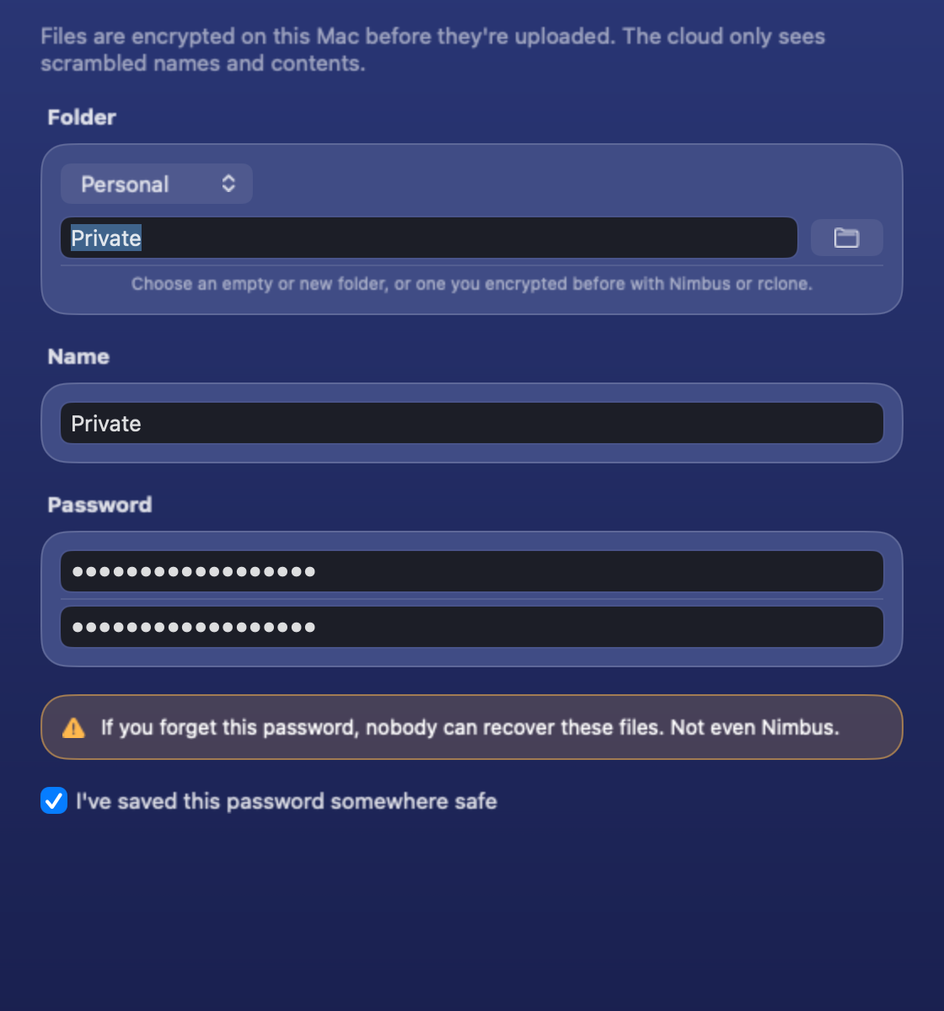
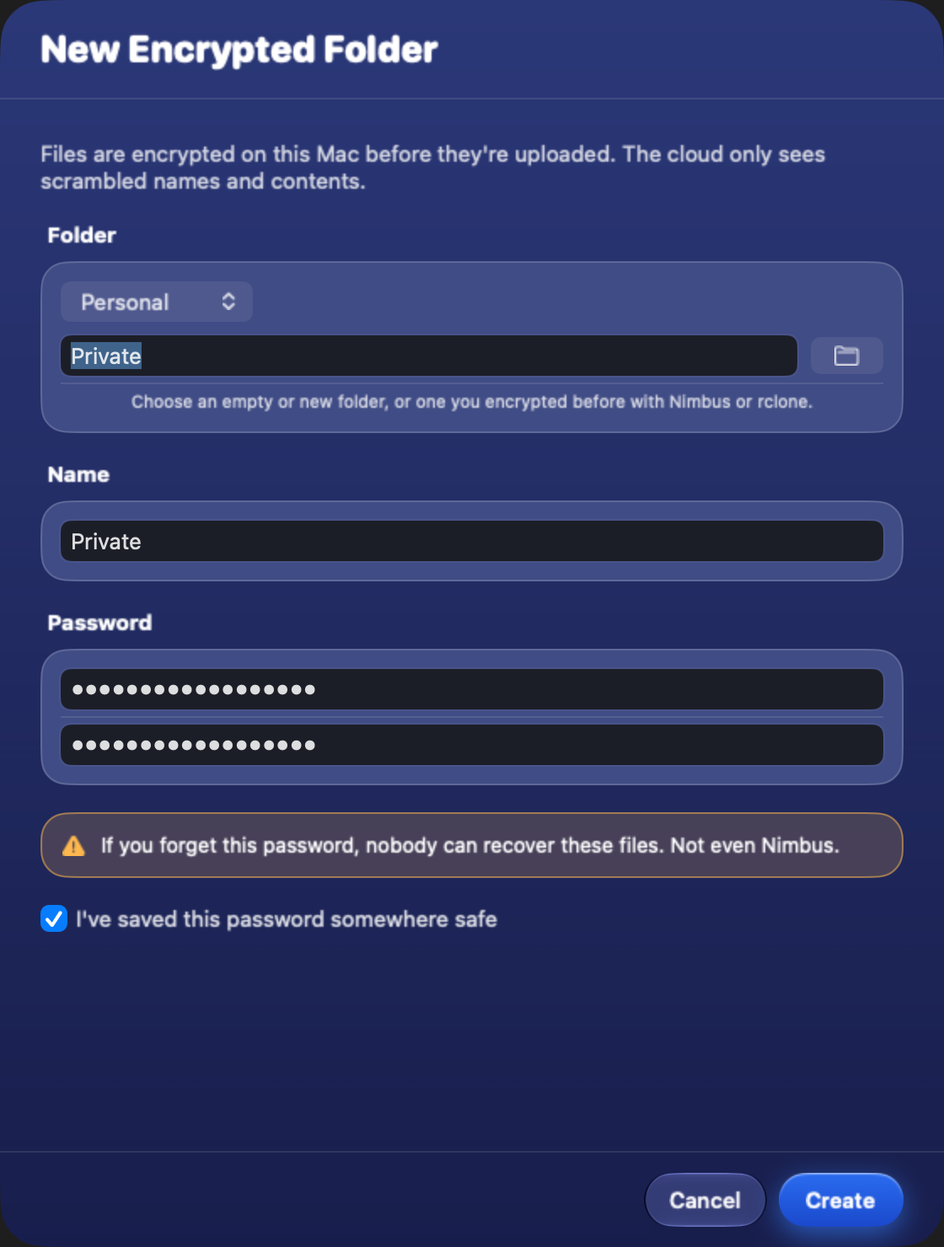
fix(site): clean up the screenshots that looked wrong and tighten the page (#179)
* fix(site): clean up the screenshots that looked wrong and tighten the page

- Add Cloud and backup sheets: clip the black baked in outside the rounded corners
- More: crop the empty lower halves of Search, Compare and Encrypted Folder; give
  Version History and Send to Nimbus a frame instead of an edge-to-edge render
- Keep on this Mac: draw the switch instead of a 240px screenshot scrap
- File Provider panel: title and Finder shot on the left, the list on the right
- Menu Bar tile: the whole panel hangs inside the tile, not cut through its buttons
- Headline accents use the page's gradient; two black chapters share one gap

* docs(site): re-render the Encrypted Folder and Version History screenshots

Both were hand-cropped: the encrypted folder sheet had lost its title and
buttons, and the version history sheet its padding. The encrypted folder shot
is now the preview's full render. The versions preview is resized to the
sheet's own width and minimum height, so the picture is the sheet edge to edge.

* feat(site): a quieter Beltr and OneScribe band, with the DTNS mention

The band before the download block was a full chapter: an 84px headline and
two tall cards of device art. It is now a small headline and two plain cards
(icon, one line, the price model, two links). The device art is removed.

OneScribe's card credits Daily Tech News Show episode 5171, whose show notes
link the app.

* feat(site): a thank-you strip for DTNS under the OneScribe card
[…]

diff --git a/site/styles.css b/site/styles.css
@@ -25,6 +25,7 @@
   --sky-low: #150c38;
   --action-top: #3d7dff;
   --action-low: #1f55e6;
+  --accent: linear-gradient(100deg, #6aa9ff, #a78bff 70%, #d08bff);
 
   --nav-h: 48px;
   --r-tile: 28px;
@@ -93,6 +94,8 @@ code { font-family: var(--mono); font-size: .9em; background: rgba(255,255,255,.
 .section--black { background: var(--black); color: var(--on-dark); }
 .section--black .win { box-shadow: 0 0 0 1px rgba(255,255,255,.12), 0 0 160px -20px rgba(72,120,255,.5); }
 @media (max-width: 700px) { .section { padding: 84px 0; } }
+/* Two black chapters in a row share one gap, not two. */
+.section--black + .section--black { padding-top: 0; }
 
 /* The app's backdrop: a navy-to-violet fall with two glows. */
 .sky {
@@ -106,8 +109,10 @@ code { font-family: var(--mono); font-size: .9em; background: rgba(255,255,255,.
 
 .head { text-align: center; max-width: 980px; margin: 0 auto 72px; }
 .head h2 { font-size: clamp(38px, 7vw, 84px); line-height: 1.02; letter-spacing: -0.03em; }
-.head h2 span { color: var(--ink-3); }
-.section--black .head h2 span, .sky .head h2 span { color: #8f93b0; }
+/* The second half of each headline is set in the page's one accent gradient,
+   the same one the manifesto's keywords use. */
+.head h2 span { color: transparent; background: var(--accent); -webkit-background-clip: text; background-clip: text;
+  -webkit-box-decoration-break: clone; box-decoration-break: clone; padding-bottom: .12em; }
 .lede { font-size: clamp(18px, 2vw, 21px); line-height: 1.4; color: var(--ink-2); max-width: 700px; margin: 22px auto 0; letter-spacing: -0.014em; }
 .section--black .lede { color: var(--on-dark-2); }
 .sky .lede { color: #c5c9e6; }
@@ -227,8 +232,28 @@ code { font-family: var(--mono); font-size: .9em; background: rgba(255,255,255,.
 
 .tile__img { margin: -10px -10px 26px; }
 .tile__img img { width: 100%; border-radius: 14px; box-shadow: 0 0 0 1px rgba(255,255,255,.12), 0 24px 50px -20px rgba(0,0,0,.7); }
-.tile__img--sheet img { border-radius: 22px 22px 14px 14px; }
-.tile__img--small { max-width: 240px; margin: 0 0 auto; padding-bottom: 26px; }
+/* A screenshot whose lower half is empty: keep the top, fade the cut. */
+.tile__img--crop { position: relative; }
+.tile__img--crop img { aspect-ratio: var(--crop); object-fit: cover; object-position: top; }
+.tile__img--crop::after { content: ""; position: absolute; inset: 86% -1px -1px; pointer-events: none;
+  background: linear-gradient(180deg, rgba(12,16,48,0), #0c1030); }
+/* A whole sheet. The render is opaque, black outside its rounded corners,
+   so the corners are cut here, as they are for the Add Cloud sheets. */
+.tile__img--sheet { container-type: inline-size; }
+.tile--dark .tile__img--sheet img { border-radius: 5cqw; }
+/* A plain system sheet, square in the render: round it and ring it here. */
+.tile__img--frame { border-radius: 14px; overflow: hidden; box-shadow: 0 0 0 1px rgba(255,255,255,.12), 0 24px 50px -20px rgba(0,0,0,.7); }
+.tile--dark .tile__img--frame img { border-radius: 0; box-shadow: none; }
+
+/* Keep on this Mac: the inspector's switch, drawn. */
+.tile__top { margin-bottom: auto; padding-bottom: 30px; }
+.keep { max-width: 300px; padding: 16px 18px; border-radius: 18px; background: rgba(255,255,255,.07);
+  box-shadow: inset 0 1px 0 rgba(255,255,255,.16), inset 0 0 0 1px rgba(255,255,255,.08); }
+.tile .keep__row { display: flex; align-items: center; justify-content: space-between; gap: 16px; font-size: 16px; font-weight: 600; color: #fff; }
+.keep__switch { position: relative; flex: none; width: 44px; height: 26px; border-radius: 13px;
+  background: linear-gradient(var(--action-top), var(--action-low)); box-shadow: 0 0 22px rgba(61,125,255,.7); }
+.keep__switch::after { content: ""; position: absolute; top: 2px; right: 2px; width: 22px; height: 22px; border-radius: 50%; background: #fff; box-shadow: 0 1px 3px rgba(0,0,0,.4); }
+.tile .keep__note { margin-top: 6px; font-size: 13px; color: var(--ink-3); }
 @media (max-width: 900px) {
   .bento, .bento--2 { grid-template-columns: 1fr; }
   .tile--span2, .tile--span3 { grid-column: auto; }
@@ -246,11 +271,14 @@ code { font-family: var(--mono); font-size: .9em; background: rgba(255,255,255,.
 .tile .ring__label span { font-size: 13px; color: #c5c9e6; margin-top: 6px; }
 
 /* ---------- Add Cloud sheets ---------- */
-.sheets { display: grid; grid-template-columns: 1184fr 1200fr; gap: 44px; align-items: start; max-width: 940px; margin: 0 auto; }
-.sheets img { filter: drop-shadow(0 30px 50px rgba(0,0,0,.45)); }
+.sheets { display: grid; grid-template-columns: 1184fr 1200fr; gap: 44px; align-items: center; max-width: 940px; margin: 0 auto; }
+/* The renders are opaque, with black outside the sheet's rounded corners, so
+   the corners are cut here: a radius that scales with the picture. */
+.sheets figure { container-type: inline-size; }
+.sheets img { width: 100%; border-radius: 5cqw; box-shadow: 0 0 0 1px rgba(255,255,255,.14), 0 30px 60px -20px rgba(0,0,0,.6), 0 0 120px -30px rgba(72,120,255,.6); }
 @media (max-width: 760px) { .sheets { grid-template-columns: 1fr; max-width: 440px; } }
 .sheets--backups { grid-template-columns: 1272fr 1200fr; margin-top: 56px; align-items: center; }
-.sheets--backups img { border-radius: 20px; filter: none; box-shadow: 0 0 0 1px rgba(255,255,255,.12), 0 0 120px -30px rgba(72,120,255,.6); }
+.sheets--backups img { border-radius: 4.4cqw; }
 .section--black .sheets figcaption { color: #8f93b0; }
 @media (max-width: 760px) { .sheets--backups { grid-template-columns: 1fr; } }
 
@@ -274,23 +302,35 @@ code { font-family: var(--mono); font-size: .9em; background: rgba(255,255,255,.
 .compare__title { font-family: var(--display); font-weight: 700; font-size: 30px; margin: 84px 0 24px; text-align: center; }
 
 /* ---------- From the same studio ---------- */
-.fund { display: grid; grid-template-columns: 7fr 5fr; gap: 20px; }
-.fund__card { background: linear-gradient(180deg, rgba(255,255,255,.085), rgba(255,255,255,.03)); box-shadow: inset 0 1px 0 rgba(255,255,255,.18), inset 0 0 0 1px rgba(255,255,255,.08); border-radius: var(--r-tile); overflow: hidden; display: flex; flex-direction: column; }
-.fund__art { position: relative; padding: 28px 28px 0; }
-.fund__art--tv { padding-right: 84px; }
-.fund__tv { border-radius: 10px; overflow: hidden; box-shadow: 0 0 0 1px rgba(0,0,0,.2), 0 30px 60px -24px rgba(0,0,0,.6); }
-.fund__phone { position: absolute; right: 20px; bottom: -24px; width: 136px; }
-.fund__art--phone { display: flex; justify-content: center; }
-.fund__hero-phone { width: 230px; margin-bottom: -44px; }
-.fund__body { padding: 40px 28px 28px; display: flex; flex-direction: column; flex: 1; position: relative; background: #0b0e26; }
-.fund__name { display: flex; align-items: center; gap: 12px; }
-.fund__name img { border-radius: 10px; box-shadow: 0 0 0 1px rgba(255,255,255,.14); }
-.fund__name h3 { font-family: var(--display); font-weight: 700; font-size: 28px; }
-.fund__what { margin-top: 14px; font-size: 21px; letter-spacing: -0.015em; }
-.fund__copy { margin-top: 8px; color: var(--ink-2); font-size: 16px; line-height: 1.5; }
-.fund__price { margin-top: 14px; font-size: 14px; font-weight: 600; color: var(--link); }
-.fund .actions { margin-top: auto; padding-top: 22px; }
-@media (max-width: 860px) { .fund { grid-template-columns: 1fr; } }
+/* A thank-you band, not a chapter: a small headline and two plain cards. */
+.studio { padding: 96px 0; }
+.head--quiet { max-width: 640px; margin-bottom: 36px; }
+.head--quiet h2 { font-size: clamp(26px, 3.2vw, 38px); line-height: 1.1; letter-spacing: -0.02em; }
+.head--quiet .lede { font-size: 17px; margin-top: 12px; }
+.fund { display: grid; grid-template-columns: 1fr 1fr; gap: 20px; max-width: 900px; margin: 0 auto; }
+.fund__card { background: linear-gradient(180deg, rgba(255,255,255,.085), rgba(255,255,255,.03)); box-shadow: inset 0 1px 0 rgba(255,255,255,.18), inset 0 0 0 1px rgba(255,255,255,.08); border-radius: var(--r-tile); padding: 28px; display: flex; flex-direction: column; }
+.fund__name { display: flex; align-items: center; gap: 14px; }
+.fund__name img { border-radius: 10px; box-shadow: 0 0 0 1px rgba(255,255,255,.14); flex: none; }
+.fund__name h3 { font-family: var(--display); font-weight: 700; font-size: 22px; line-height: 1.1; }
+.fund__what { font-size: 15px; color: var(--ink-2); margin-top: 2px; }
+.fund__copy { margin-top: 16px; color: var(--ink-2); font-size: 15px; line-height: 1.5; }
+.fund__price { margin-top: 12px; font-size: 14px; font-weight: 600; color: var(--ink); }
+.fund .actions { margin-top: auto; padding-top: 18px; }
+/* The thank-you to DTNS for mentioning OneScribe: big letters and one link,
+   to the show's Patreon. It spans both cards. */
+.dtns { grid-column: 1 / -1; display: flex; align-items: center; gap: 28px; padding: 26px 32px; border-radius: var(--r-tile); color: var(--ink);
+  background: radial-gradient(60% 160% at 0% 50%, rgba(64,120,255,.38), transparent 70%), radial-gradient(50% 160% at 100% 50%, rgba(128,72,255,.26), transparent 70%), rgba(255,255,255,.04);
+  box-shadow: inset 0 1px 0 rgba(255,255,255,.2), inset 0 0 0 1px rgba(255,255,255,.1); transition: filter .2s; }
+.dtns:hover { text-decoration: none; filter: brightness(1.12); }
+.dtns__mark { flex: none; font-family: var(--display); font-weight: 800; font-size: clamp(56px, 8vw, 92px); line-height: .9; letter-spacing: -0.04em;
+  color: transparent; background: linear-gradient(100deg, #fff 5%, #9fc0ff 60%, #b99cff); -webkit-background-clip: text; background-clip: text; padding-right: .04em; }
+.dtns__copy { display: grid; gap: 4px; font-size: 15px; line-height: 1.45; color: var(--ink-2); }
+.dtns__copy strong { font-family: var(--display); font-size: 21px; font-weight: 700; color: #fff; }
+.dtns__go { flex: none; margin-left: auto; font-weight: 600; font-size: 15px; line-height: 1; color: #fff; padding: 12px 20px; border-radius: 980px;
+  background: linear-gradient(var(--action-top), var(--action-low)); box-shadow: inset 0 1px 0 rgba(255,255,255,.28); }
+@media (max-width: 760px) { .dtns { flex-direction: column; align-items: flex-start; gap: 16px; padding: 26px 28px; } .dtns__go { margin-left: 0; } }
+.fund .more { font-size: 15px; }
+@media (max-width: 760px) { .fund { grid-template-columns: 1fr; } .studio { padding: 72px 0; } }
 
 /* ---------- Download ---------- */
 .cta { padding: 136px 0 120px; text-align: center; }
@@ -326,7 +366,7 @@ code { font-family: var(--mono); font-size: .9em; background: rgba(255,255,255,.
 .manifesto { background: var(--black); color: var(--on-dark); padding: 120px 0 40px; }
 .manifesto__pin { max-width: 1080px; margin: 0 auto; padding: 0 22px; }
 .manifesto__text { font-family: var(--display); font-weight: 700; font-size: clamp(30px, 5.6vw, 68px); line-height: 1.1; letter-spacing: -0.028em; text-wrap: balance; }
-.manifesto__text b { font-weight: inherit; color: transparent; background: linear-gradient(100deg, #6aa9ff, #a78bff 70%, #d08bff); -webkit-background-clip: text; background-clip: text; }
+.manifesto__text b { font-weight: inherit; color: transparent; background: var(--accent); -webkit-background-clip: text; background-clip: text; }
 
 /* ---------- On your Mac: the wall of system surfaces ---------- */
 .mac { position: relative; overflow: hidden; padding-top: 120px; }
@@ -347,7 +387,7 @@ code { font-family: var(--mono); font-size: .9em; background: rgba(255,255,255,.
 .sys__copy p { margin-top: 10px; font-size: 17px; line-height: 1.4; color: #b9bedd; max-width: 17em; }
 /* The panel hangs from the top edge, the way it hangs from the menu bar. */
 .sys__tile--menubar .sys__copy { max-width: 46%; }
-.sys__tile--menubar img { position: absolute; right: 36px; top: 0; width: min(44%, 300px); border-radius: 0 0 18px 18px;
+.sys__tile--menubar img { position: absolute; right: 36px; top: 0; height: calc(100% - 30px); width: auto; border-radius: 0 0 18px 18px;
   box-shadow: 0 0 0 1px rgba(255,255,255,.14), 0 30px 80px -20px rgba(40,70,200,.7); }
 .acts { margin-top: 28px; display: grid; gap: 10px; }
 .acts li { display: flex; align-items: center; gap: 12px; padding: 12px 14px; border-radius: 16px; font-size: 16px; font-weight: 600; color: #fff;
@@ -363,10 +403,10 @@ code { font-family: var(--mono); font-size: .9em; background: rgba(255,255,255,.
 .sys-list dd { margin-top: 6px; font-size: 15px; line-height: 1.45; color: #b9bedd; }
 @media (max-width: 900px) { .sys { grid-template-columns: 1fr; } .sys-list { grid-template-columns: repeat(2, 1fr); } }
 @media (max-width: 600px) { .sys-list { grid-template-columns: 1fr; } .sys__tile { padding: 28px; }
-  .sys__tile--menubar { min-height: 0; padding-bottom: 0; } .sys__tile--menubar .sys__copy { max-width: none; } .sys__tile--menubar img { position: static; width: 78%; margin: 24px auto 0; border-radius: 18px 18px 0 0; } }
+  .sys__tile--menubar { min-height: 0; padding-bottom: 0; } .sys__tile--menubar .sys__copy { max-width: none; } .sys__tile--menubar img { position: static; width: 78%; height: auto; margin: 24px auto 0; border-radius: 18px 18px 0 0; } }
 
 /* File Provider: the one panel the chapter is about. */
-.fp { display: grid; grid-template-columns: 5fr 7fr; gap: 48px; align-items: center; border-radius: 36px; padding: clamp(28px, 4.4vw, 60px);
+.fp { display: grid; grid-template-columns: 11fr 9fr; gap: 56px; align-items: center; border-radius: 36px; padding: clamp(28px, 4.4vw, 60px);
   background:
     radial-gradient(70% 90% at 100% 0%, rgba(64,120,255,.42), transparent 70%),
     radial-gradient(60% 80% at 0% 100%, rgba(128,72,255,.34), transparent 70%),
@@ -375,13 +415,14 @@ code { font-family: var(--mono); font-size: .9em; background: rgba(255,255,255,.
 .fp h3 { font-family: var(--display); font-weight: 700; font-size: clamp(44px, 6.4vw, 84px); line-height: .98; letter-spacing: -0.035em;
   color: transparent; background: linear-gradient(100deg, #fff 10%, #9fc0ff 60%, #b99cff); -webkit-background-clip: text; background-clip: text; padding-bottom: .08em; }
 .fp__lede { font-size: clamp(18px, 2vw, 22px); line-height: 1.35; color: #dfe3fa; margin-top: 14px; letter-spacing: -0.015em; }
-.fp__list { margin-top: 26px; display: grid; gap: 12px; }
+.fp__list { display: grid; gap: 14px; }
 .fp__list li { font-size: 16px; line-height: 1.42; color: #b9bedd; padding-left: 18px; position: relative; }
 .fp__list li::before { content: ""; position: absolute; left: 0; top: .62em; width: 6px; height: 6px; border-radius: 50%; background: #6aa9ff; }
 .fp__list strong { color: #fff; font-weight: 600; }
 .fp__fine { margin-top: 26px; font-size: 14px; font-weight: 600; color: #9fc0ff; }
+.fp__shot { margin-top: 36px; }
 .fp__shot img { width: 100%; border-radius: 14px; box-shadow: 0 0 0 1px rgba(255,255,255,.16), 0 40px 80px -24px rgba(0,0,0,.75); }
-@media (max-width: 900px) { .fp { grid-template-columns: 1fr; gap: 32px; } .fp__shot { order: -1; } }
+@media (max-width: 900px) { .fp { grid-template-columns: 1fr; gap: 32px; } }
 /* ---------- Privacy: three zeros ---------- */
 .zeros { display: grid; grid-template-columns: repeat(3, 1fr); gap: 24px; text-align: center; margin: 0 0 72px; }
 .zeros dt { font-family: var(--display); font-weight: 700; font-size: clamp(96px, 17vw, 200px); line-height: .9; letter-spacing: -0.04em;
@@ -407,7 +448,7 @@ code { font-family: var(--mono); font-size: .9em; background: rgba(255,255,255,.
     @keyframes win-in { from { transform: scale(.9); opacity: 0; } to { transform: none; opacity: 1; } }
 
     /* Headlines and tiles rise into place. */
-    .head, .tile, .sys__tile, .sys-list > div, .fp, .wall__title, .trio > div, .quad > div, .sheets figure, .panels figure, .panels__copy > div, .fund__card, .zeros > div, .services__row li {
+    .head, .tile, .sys__tile, .sys-list > div, .fp, .wall__title, .trio > div, .quad > div, .sheets figure, .panels figure, .panels__copy > div, .fund__card, .dtns, .zeros > div, .services__row li {
       animation: rise-in linear both; animation-timeline: view(); animation-range: entry 0% entry 90%; }
     @keyframes rise-in { from { opacity: 0; transform: translateY(44px); } to { opacity: 1; transform: none; } }
     /* Tall blocks would never finish their entry on a short screen. */

diff --git a/site/index.html b/site/index.html
@@ -124,9 +124,12 @@
     </header>
 
     <article class="fp">
-      <div class="fp__copy">
+      <div class="fp__main">
         <h3>File Provider</h3>
         <p class="fp__lede">One Apple framework, and everything Finder knows how to do with a cloud comes with it.</p>
+        <figure class="fp__shot"><img src="assets/finder-demo.png" width="920" height="406" alt="A Finder window open on a cloud named Nimbus - Personal, listed under Locations beside iCloud Drive. Photos and PDFs show real thumbnails, each with a cloud badge, before any file is downloaded. Demo files." loading="lazy"></figure>
+      </div>
+      <div class="fp__copy">
         <ul class="fp__list">
           <li><strong>Under Locations.</strong> Each cloud sits in Finder’s sidebar and in every app’s Open and Save panel.</li>
           <li><strong>Files on demand.</strong> A file downloads when you open it. macOS manages the local copies and frees the space when it needs to.</li>
@@ -139,7 +142,6 @@
         </ul>
         <p class="fp__fine">No kernel extension. No FUSE. Nothing to approve in Recovery.</p>
       </div>
-      <figure class="fp__shot"><img src="assets/finder-demo.png" width="920" height="406" alt="A Finder window open on a cloud named Nimbus - Personal, listed under Locations beside iCloud Drive. Photos and PDFs show real thumbnails, each with a cloud badge, before any file is downloaded. Demo files." loading="lazy"></figure>
     </article>
 
     <h3 class="wall__title">And everywhere else macOS offers an app a place to live.</h3>
@@ -196,9 +198,12 @@
         <p>Photos and PDFs in the cloud show real previews in Finder, made on demand and cached, so you can find the right file without pulling it down first.</p>
       </article>
       <article class="tile tile--white">
-        <figure class="tile__img tile__img--small">
-          <img src="assets/keep-on-this-mac.png" width="240" height="118" alt="The Keep on this Mac switch." loading="lazy">
-        </figure>
+        <div class="tile__top">
+          <div class="keep" role="img" aria-label="The Keep on this Mac switch, turned on. Stays downloaded and up to date.">
+            <p class="keep__row"><span>Keep on this Mac</span><i class="keep__switch"></i></p>
+            <p class="keep__note">Stays downloaded and up to date.</p>
+          </div>
+        </div>
         <h3>Keep on this Mac</h3>
         <p>Pin a file or folder and it stays downloaded. Finder’s own “Keep Downloaded” and “Remove Download” commands work too.</p>
       </article>
@@ -383,22 +388,22 @@
     </header>
     <div class="bento">
       <article class="tile tile--dark tile--span2 tile--top">
-        <figure class="tile__img"><img src="assets/search.webp" width="1500" height="914" alt="Search results for the word lease, grouped by cloud: two files in Personal, one in Dropbox, Photo Archive still searching, and Work asking to sign in again. Demo data." loading="lazy"></figure>
+        <figure class="tile__img tile__img--crop" style="--crop: 1500 / 820"><img src="assets/search.webp" width="1500" height="914" alt="Search results for the word lease, grouped by cloud: two files in Personal, one in Dropbox, Photo Archive still searching, and Work asking to sign in again. Demo data." loading="lazy"></figure>
         <h3>Search across clouds</h3>
         <p>Type a file name once and Nimbus looks in every cloud at the same time. Results arrive cloud by cloud.</p>
       </article>
       <article class="tile tile--dark tile--top">
-        <figure class="tile__img tile__img--sheet"><img src="assets/encrypted-folder.webp" width="1120" height="1200" alt="The New Encrypted Folder sheet: a folder named Private inside the Personal cloud, a name, a password typed twice, and a warning that nobody can recover the files if the password is forgotten. Demo data." loading="lazy"></figure>
+        <figure class="tile__img tile__img--sheet"><img src="assets/encrypted-folder.webp" width="1120" height="1480" alt="The New Encrypted Folder sheet: a folder named Private inside the Personal cloud, a name, a password typed twice, a warning that nobody can recover the files if the password is forgotten, and the buttons Cancel and Create. Demo data." loading="lazy"></figure>
         <h3>New Encrypted Folder</h3>
         <p>A guided setup for a folder whose contents are encrypted before they leave this Mac, inside any cloud you already use.</p>
       </article>
       <article class="tile tile--dark tile--span2 tile--top">
-        <figure class="tile__img"><img src="assets/compare.webp" width="1500" height="976" alt="Compare Folders results: 2 files different, 3 only in Documents, 1 only in the cloud copy, 4 the same, with the two different files listed. Demo data." loading="lazy"></figure>
+        <figure class="tile__img tile__img--crop" style="--crop: 1500 / 640"><img src="assets/compare.webp" width="1500" height="976" alt="Compare Folders results: 2 files different, 3 only in Documents, 1 only in the cloud copy, 4 the same, with the two different files listed. Demo data." loading="lazy"></figure>
         <h3>Compare Folders</h3>
         <p>Pick two folders, on any clouds or this Mac, and see what is only on one side, what differs and what matches. Nothing is changed.</p>
       </article>
       <article class="tile tile--dark tile--top">
-        <figure class="tile__img"><img src="assets/versions.webp" width="816" height="802" alt="Version History for a file named Deck.key: three earlier versions with their dates and sizes, each with Restore and Download buttons. Demo data." loading="lazy"></figure>
+        <figure class="tile__img tile__img--frame"><img src="assets/versions.webp" width="880" height="620" alt="Version History for a file named Deck.key: three earlier versions with their dates and sizes, each with Restore and Download buttons. Demo data." loading="lazy"></figure>
         <h3>Version history</h3>
         <p>For Amazon S3 and Backblaze B2, the versions the service kept of a file. Restore one or download it.</p>
       </article>
@@ -408,7 +413,7 @@
         <p>Flip a folder to Gallery and step through it with the arrow keys: one large preview over a filmstrip. Photos and PDFs show as pictures while they are still in the cloud.</p>
       </article>
       <article class="tile tile--dark tile--top">
-        <figure class="tile__img"><img src="assets/send-to-nimbus.webp" width="960" height="460" alt="The Send to Nimbus sheet: three items, 14.2 MB, going to a folder named Inbox in the Personal cloud, with Cancel and Send buttons. Demo data." loading="lazy"></figure>
+        <figure class="tile__img tile__img--frame"><img src="assets/send-to-nimbus.webp" width="960" height="460" alt="The Send to Nimbus sheet: three items, 14.2 MB, going to a folder named Inbox in the Personal cloud, with Cancel and Send buttons. Demo data." loading="lazy"></figure>
         <h3>Send to Nimbus</h3>
         <p>From Finder, Photos, Preview or any other app, choose Share and then Nimbus, or Services and then Send to Nimbus. Pick the cloud and folder once. Nimbus remembers it for next time.</p>
       </article>
@@ -520,44 +525,47 @@
 </section>
 
 <!-- ============ FROM THE SAME STUDIO ============ -->
-<section id="studio" class="section">
+<section id="studio" class="section studio">
   <div class="wrap">
-    <header class="head">
+    <header class="head head--quiet">
       <h2>Nimbus is free. <span>These two pay for it.</span></h2>
-      <p class="lede">Nimbus costs nothing. Not the source, not the signed app, and that will not change. Casa Vargas sells two apps, each bought once and kept, and they pay for the time. If Nimbus is useful to you, this is the way to say thanks.</p>
+      <p class="lede">Casa Vargas sells two apps, each bought once and kept. If Nimbus is useful to you, this is the way to say thanks.</p>
     </header>
     <div class="fund">
       <article class="fund__card">
-        <div class="fund__art fund__art--tv">
-          <div class="fund__tv"><img src="assets/beltr-tv.jpg" width="2560" height="1440" alt="Beltr on a TV: word-timed lyrics with a pitch guide above them." loading="lazy"></div>
-          <img class="fund__phone" src="assets/beltr-phone.webp" width="820" height="1673" alt="A phone joining a Beltr room by name." loading="lazy">
+        <div class="fund__name">
+          <img src="assets/beltr-icon.png" width="44" height="44" alt="">
+          <div><h3>Beltr</h3><p class="fund__what">Karaoke from the music you already own.</p></div>
         </div>
-        <div class="fund__body">
-          <div class="fund__name"><img src="assets/beltr-icon.png" width="44" height="44" alt=""><h3>Beltr</h3></div>
-          <p class="fund__what">Karaoke from the music you already own.</p>
-          <p class="fund__copy">Beltr turns the songs already on your computer into karaoke on your TV, and every phone in the room becomes a remote and a mic. Mac, Windows and Linux, with free phone and TV companions.</p>
-          <p class="fund__price">$19.99 once, five songs free to try</p>
-          <div class="actions actions--left">
-            <a class="btn btn--small" href="https://beltr.app/?utm_source=nimbus-site&amp;utm_medium=referral&amp;utm_campaign=nimbus">Get Beltr</a>
-            <a class="more" href="https://casavargas.app/work/beltr/">Read the case study</a>
-          </div>
+        <p class="fund__copy">Beltr turns the songs already on your computer into karaoke on your TV, and every phone in the room becomes a remote and a mic. Mac, Windows and Linux.</p>
+        <p class="fund__price">$19.99 once, five songs free to try</p>
+        <div class="actions actions--left">
+          <a class="more" href="https://beltr.app/?utm_source=nimbus-site&amp;utm_medium=referral&amp;utm_campaign=nimbus">Get Beltr</a>
+          <a class="more" href="https://casavargas.app/work/beltr/">Case study</a>
         </div>
       </article>
       <article class="fund__card">
-        <div class="fund__art fund__art--phone">
-          <img class="fund__hero-phone" src="assets/onescribe-phone.webp" width="717" height="1464" alt="OneScribe reading a boarding pass into flight, gate, seat and boarding time." loading="lazy">
+        <div class="fund__name">
+          <img src="assets/onescribe-icon.png" width="44" height="44" alt="">
+          <div><h3>OneScribe</h3><p class="fund__what">A document scanner that reads what it scans.</p></div>
         </div>
-        <div class="fund__body">
-          <div class="fund__name"><img src="assets/onescribe-icon.png" width="44" height="44" alt=""><h3>OneScribe</h3></div>
-          <p class="fund__what">A document scanner that reads what it scans.</p>
-          <p class="fund__copy">OneScribe reads what you scan and turns it into organized, searchable details, with the AI running on your iPhone or iPad. Nothing you scan leaves the device.</p>
-          <p class="fund__price">Free to scan; Pro is $9.99 once</p>
-          <div class="actions actions--left">
-            <a class="btn btn--small" href="https://apps.apple.com/us/app/onescribe-ai-note-scanner/id6756506734">Get OneScribe</a>
-            <a class="more" href="https://casavargas.app/work/onescribe/">Read the case study</a>
-          </div>
+        <p class="fund__copy">OneScribe turns what you scan into organized, searchable details, with the AI running on your iPhone or iPad. Nothing you scan leaves the device.</p>
+        <p class="fund__price">Free to scan; Pro is $9.99 once</p>
+        <div class="actions actions--left">
+          <a class="more" href="https://apps.apple.com/us/app/onescribe-ai-note-scanner/id6756506734">Get OneScribe</a>
+          <a class="more" href="https://casavargas.app/work/onescribe/">Case study</a>
         </div>
       </article>
+      <!-- A thank-you, not an ad: DTNS mentioned OneScribe on the show. The
+           whole strip goes to the show's Patreon. -->
+      <a class="dtns" href="https://www.patreon.com/dtns">
+        <span class="dtns__mark" aria-hidden="true">DTNS</span>
+        <span class="dtns__copy">
+          <strong>Thank you, Daily Tech News Show.</strong>
+          <span>OneScribe got a mention in episode 5171, “The DTNS Inbox Takes Over.” If you like the show, back it on Patreon.</span>
+        </span>
+        <span class="dtns__go">Support DTNS on Patreon</span>
+      </a>
     </div>
   </div>
 </section>

diff --git a/Nimbus/Nimbus/Views/Debug/SiteScreenshots.swift b/Nimbus/Nimbus/Views/Debug/SiteScreenshots.swift
@@ -283,9 +283,12 @@ private enum SiteFiles {
     .preferredColorScheme(.dark)
 }
 
-#Preview("versions", traits: .fixedLayout(width: 1120, height: 900)) {
+// The sheet's own width, and a height that leaves the list at its minimum:
+// the picture is the sheet edge to edge, padding included, with no rows of
+// nothing under the three versions.
+#Preview("versions", traits: .fixedLayout(width: 880, height: 620)) {
     let now = Date()
-    SiteShot(width: 560, height: 450) {
+    SiteShot(width: 440, height: 310) {
         FileVersionsSheet(remote: "Photo Archive",
                           file: SiteFiles.file("Photo Archive", "projects/Deck.key", size: 48_000_000, daysAgo: 0),
                           versionsOverride: [
